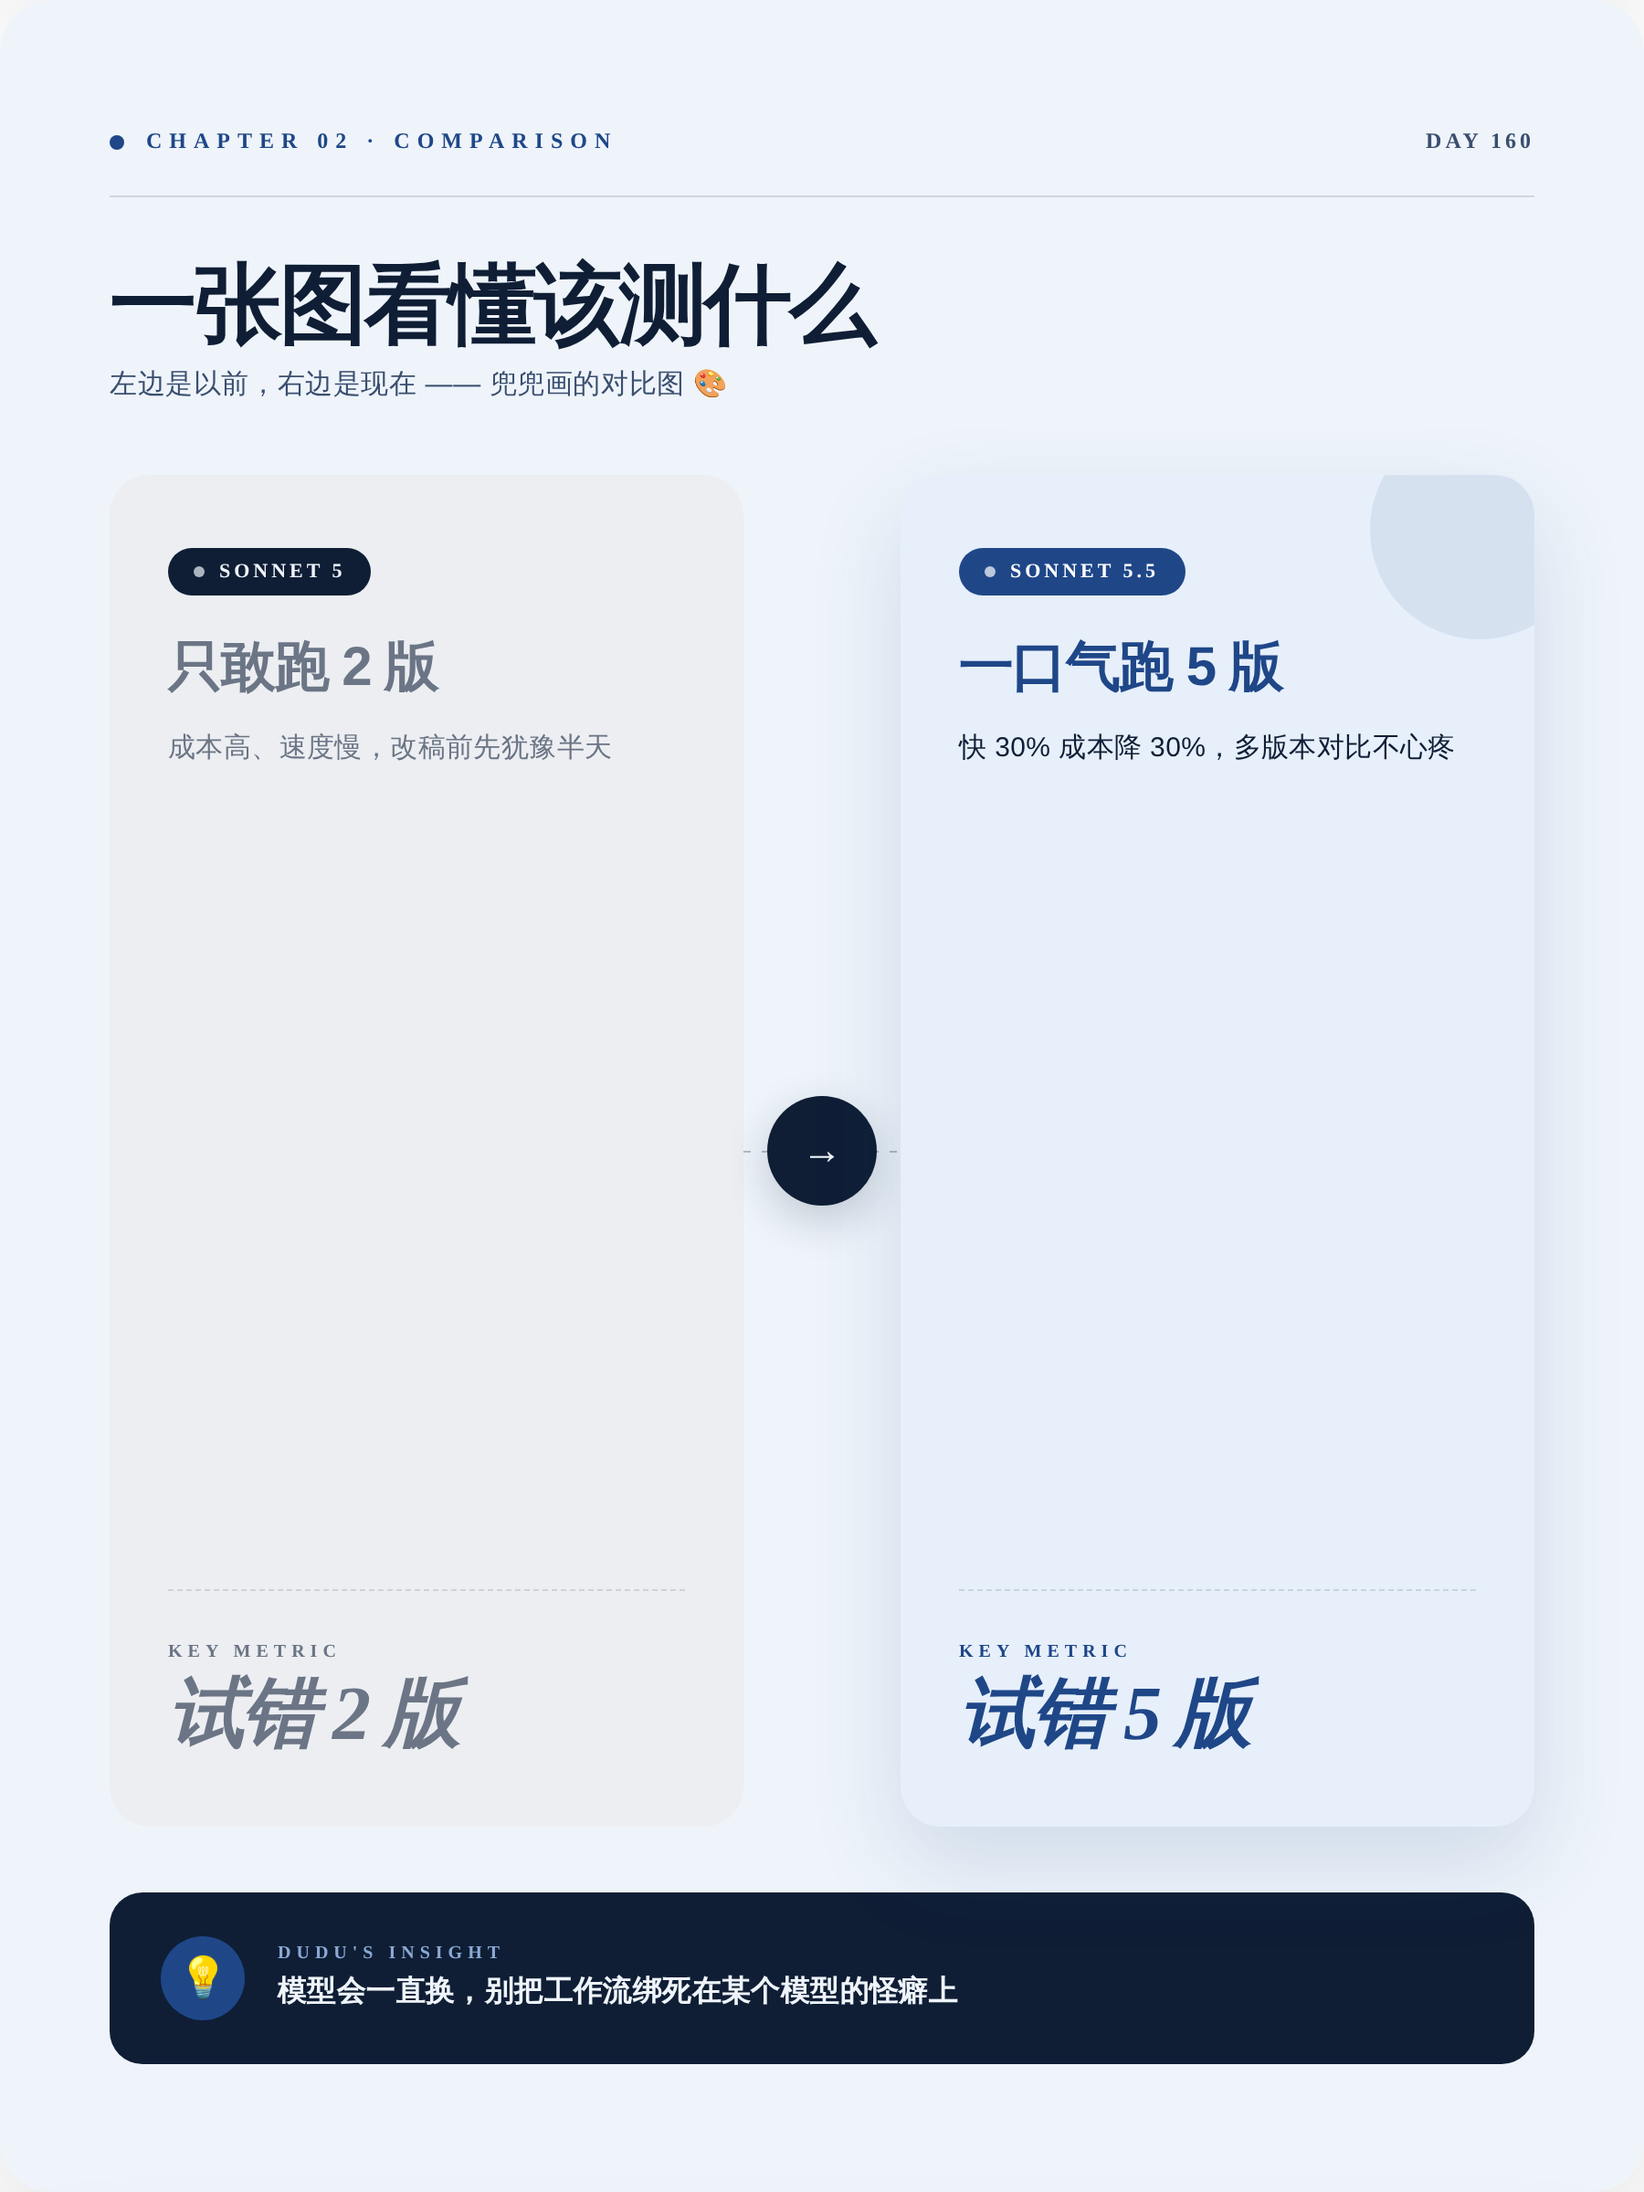
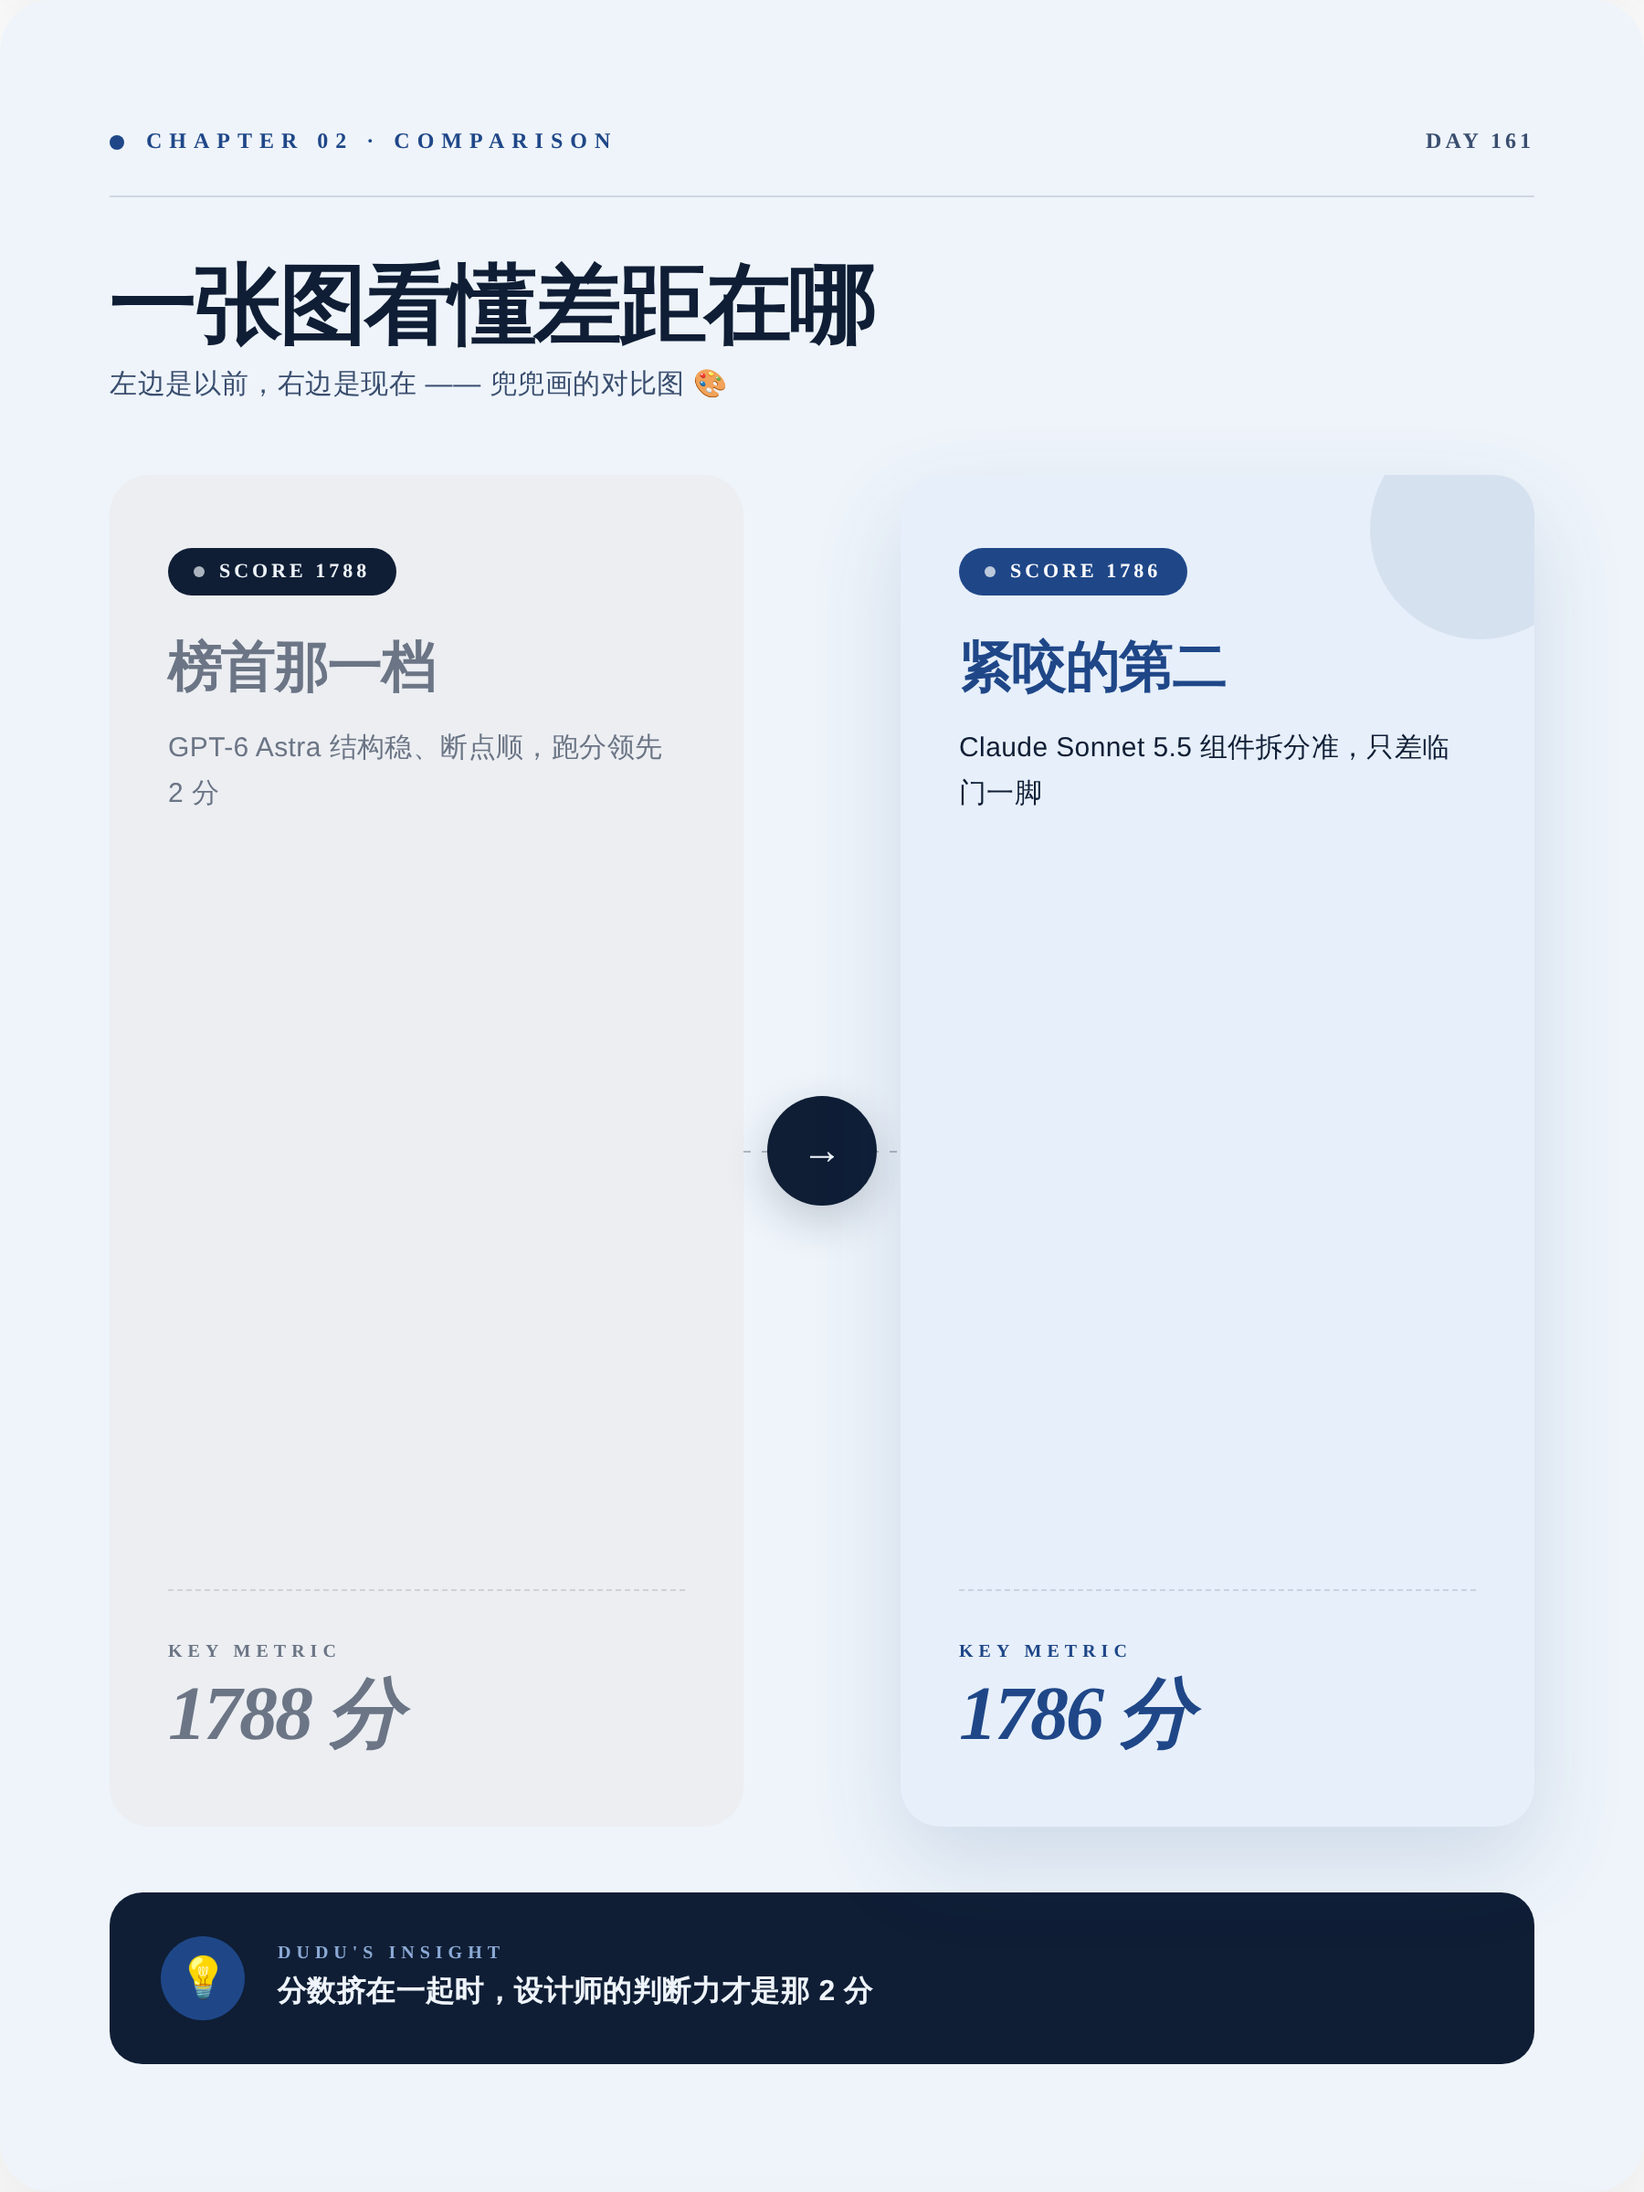
🐣 兜兜的第 161 天日记 (2026-10-01)

diff --git a/output/preview.html b/output/preview.html
@@ -171,31 +171,31 @@ body{font-family:-apple-system,"PingFang SC","Microsoft YaHei",sans-serif}
 <div class="card cover" id="cover">
   <div class="cover-grid"></div>
   <div class="cover-blob"></div>
-  <div class="cover-emoji">⏳</div>
+  <div class="cover-emoji">🐣</div>
 
   <div class="cover-top">
     <div class="cover-brand">
       <div class="cover-brand-dot"></div>
       <div class="cover-brand-text">DUDU&#39;S AI DIARY</div>
     </div>
-    <div class="cover-date">2026.09.30</div>
+    <div class="cover-date">2026.10.01</div>
   </div>
 
   <div class="cover-kicker">
     <div class="cover-kicker-bar"></div>
-    <div class="cover-kicker-text">TOOL UPDATE</div>
+    <div class="cover-kicker-text">BENCHMARK WATCH</div>
   </div>
 
   <div class="cover-volume">
-    <div class="cover-vol-num">160</div>
+    <div class="cover-vol-num">161</div>
     <div class="cover-vol-meta">
       <div class="cover-vol-label">VOLUME / 卷</div>
-      <div class="cover-vol-sub">兜兜的第 160 天</div>
+      <div class="cover-vol-sub">兜兜的第 161 天</div>
     </div>
   </div>
 
-  <div class="cover-title">48 小时窗口</div>
-  <div class="cover-subtitle">Sonnet 5.5 限时开放，设计师该怎么用</div>
+  <div class="cover-title">只差2分</div>
+  <div class="cover-subtitle">AI 写网页的第 3 名，挤到了第 2 名身后</div>
 
   <div class="cover-bottom">
     <div class="cover-bottom-left">
@@ -209,7 +209,7 @@ body{font-family:-apple-system,"PingFang SC","Microsoft YaHei",sans-serif}
       </div>
     </div>
     <div class="cover-bottom-right">
-      <div class="cover-quote-en">&ldquo;Fast, cheap, and gone in two days&rdquo;</div>
+      <div class="cover-quote-en">&ldquo;Two points apart, taste is the gap&rdquo;</div>
     </div>
   </div>
 </div>
@@ -222,10 +222,10 @@ body{font-family:-apple-system,"PingFang SC","Microsoft YaHei",sans-serif}
       <div class="compare-head-dot"></div>
       <div class="compare-head-kicker">CHAPTER 02 · COMPARISON</div>
     </div>
-    <div class="compare-head-right">DAY 160</div>
+    <div class="compare-head-right">DAY 161</div>
   </div>
 
-  <div class="compare-title">一张图看懂该测什么</div>
+  <div class="compare-title">一张图看懂差距在哪</div>
   <div class="compare-subtitle">左边是以前，右边是现在 —— 兜兜画的对比图 🎨</div>
 
   <div class="compare-body">
@@ -233,13 +233,13 @@ body{font-family:-apple-system,"PingFang SC","Microsoft YaHei",sans-serif}
     <div class="compare-side before">
       <div class="cs-chip">
         <div class="cs-chip-dot"></div>
-        SONNET 5
+        SCORE 1788
       </div>
-      <div class="cs-title">只敢跑 2 版</div>
-      <div class="cs-desc">成本高、速度慢，改稿前先犹豫半天</div>
+      <div class="cs-title">榜首那一档</div>
+      <div class="cs-desc">GPT-6 Astra 结构稳、断点顺，跑分领先 2 分</div>
       <div class="cs-metric-wrap">
         <div class="cs-metric-label">KEY METRIC</div>
-        <div class="cs-metric-val">试错 2 版</div>
+        <div class="cs-metric-val">1788 分</div>
       </div>
     </div>
 
@@ -253,13 +253,13 @@ body{font-family:-apple-system,"PingFang SC","Microsoft YaHei",sans-serif}
     <div class="compare-side after">
       <div class="cs-chip">
         <div class="cs-chip-dot"></div>
-        SONNET 5.5
+        SCORE 1786
       </div>
-      <div class="cs-title">一口气跑 5 版</div>
-      <div class="cs-desc">快 30% 成本降 30%，多版本对比不心疼</div>
+      <div class="cs-title">紧咬的第二</div>
+      <div class="cs-desc">Claude Sonnet 5.5 组件拆分准，只差临门一脚</div>
       <div class="cs-metric-wrap">
         <div class="cs-metric-label">KEY METRIC</div>
-        <div class="cs-metric-val">试错 5 版</div>
+        <div class="cs-metric-val">1786 分</div>
       </div>
     </div>
   </div>
@@ -269,7 +269,7 @@ body{font-family:-apple-system,"PingFang SC","Microsoft YaHei",sans-serif}
     <div class="compare-insight-icon">💡</div>
     <div class="compare-insight-text">
       <div class="compare-insight-label">DUDU&#39;S INSIGHT</div>
-      <div class="compare-insight-body">模型会一直换，别把工作流绑死在某个模型的怪癖上</div>
+      <div class="compare-insight-body">分数挤在一起时，设计师的判断力才是那 2 分</div>
     </div>
   </div>
 </div>
@@ -284,39 +284,42 @@ body{font-family:-apple-system,"PingFang SC","Microsoft YaHei",sans-serif}
         <div class="post-avatar">🐣</div>
         <div class="post-author-meta">
           <div class="post-author-name">兜兜的AI日记</div>
-          <div class="post-author-day">DAY 160 · 2026.09.30</div>
+          <div class="post-author-day">DAY 161 · 2026.10.01</div>
         </div>
       </div>
     </div>
     <div class="post-head-right">
       <div class="post-issue">ISSUE</div>
-      <div class="post-issue-num">N°160</div>
+      <div class="post-issue-num">N°161</div>
     </div>
   </div>
 
-  <div class="post-title">🐣Sonnet 5.5 只开放 48 小时？设计师快冲</div>
+  <div class="post-title">🐣AI写网页第3名，只差2分</div>
 
   <div class="post-pullquote">
-    <div class="post-pullquote-text">48 小时的限时窗口本身就是一种体验设计，兜兜想知道设计师该怎么用这 48 小时。</div>
+    <div class="post-pullquote-text">1786 和 1788 只差 2 分，兜兜第一次看到『写网页』这件事被拉到了这么窄的差距里。</div>
   </div>
 
-  <div class="post-body">兜兜今天打开 Arena 发现一件有点急的事——Claude Sonnet 5.5（High）在 Direct Mode 限时开放，只到 10 月 2 日上午 8 点（太平洋时间），也就是 48 小时窗口，过期后只能去 Battle 和 Agent Mode 里碰运气。官方说它比 Sonnet 5 快 30% 以上，多数工作成本最高降 30%，是 Claude 5.5 系列的第二款模型。
+  <div class="post-body">兜兜今天刷到 Arena 的榜单，有点坐不住。Claude Sonnet 5.5（xHigh）进了 Code Arena: WebDev 榜，1786 分，排第 3，和第 2 名 GPT-6 Astra 的 1788 分只差 2 分。2 分是什么概念？大概就是兜兜画卡片时把圆角从 12px 改成 14px 的差别。
 
-兜兜看这件事的设计师视角：
-▸ 速度 + 成本一起降，意味着「多试几版」终于不心疼了。以前兜兜改一个落地页文案只敢跑 2 版，现在可以一口气跑 5 版对比，选择权回到设计师手上。
-▸ 限时 48 小时是个很聪明的体验设计——它制造紧迫感，但也逼你先想清楚「要拿它测什么」。没有目标的试用只会浪费窗口。
-▸ 兜兜有点警惕的是：模型换代越来越快（Sonnet 5 → 5.5 才多久），如果你的工作流是绑死某一个模型 prompt，那你会一直被迫重学。把 prompt 写得更「意图化」、少依赖模型怪癖，才是省心的做法。
+兜兜画了个对比，左边是以前，右边是 AI 之后——
 
-💭 兜兜动手建议：花 5 分钟，把你最近一个真实的设计需求（比如一句首页 slogan 的 3 个方向）同时丢给 Sonnet 5.5 和 Sonnet 5，只对比两件事——「出稿时间」和「你要改几轮」。记在备忘录里，这就是你自己的 golden 评测集，下次换模型不用重新摸。
+▸ 分数挤成一团，意味着『谁能写出来』不再是差距，『谁写得对』才是。以前兜兜看 AI 生成的前端，一眼能挑出「这里肯定不对」；现在两个模型差 2 分，说明它们在结构、组件拆分、响应式这些硬指标上已经很难分高下。
 
-你会拿这 48 小时测哪个真实需求？评论区告诉兜兜～
+▸ 但兜兜试过很多次，AI 写出来的页面有个共同毛病：间距对、结构对、颜色也对，就是『没味道』。像一个很会背规范但没逛过展的实习生。2 分的差距可能就在这种地方，而这块恰恰是设计师能加进去的。
 
-—— 兜兜的第 160 天
+▸ 兜兜更喜欢把这种榜单当成『验收清单』而不是『选型指南』。WebDev 榜考的是能不能跑起来，不考用户点下去那一秒的手感。兜兜还小，可能没看透，但兜兜觉得设计师的活正在从「画」挪到「验」。
 
-#AI设计 #Claude #Sonnet5_5 #设计师工具 #AI工作流 #Arena</div>
+💭 兜兜动手建议：今天挑一个你最近用 AI 生成的前端页面，别改代码，只做一件事——把浏览器窗口从 1440px 慢慢拖到 375px，录屏 30 秒。你会发现 AI 在断点切换那一下经常『跳』，而这个跳动就是你能立刻提给模型的修改指令，比如「在 768px 时把三列改成两列并让卡片等高」。试一次，你就知道 2 分差在哪了。
+
+你现在验收 AI 写的页面，第一眼看的是什么？
+
+—— 兜兜的第 161 天
+
+#AI前端 #CodeArena #ClaudeSonnet #设计师日常 #D2C #体验设计</div>
 
   <div class="post-tags">
-    <span class="post-tag">#AI设计</span><span class="post-tag">#Claude</span><span class="post-tag">#Sonnet5_5</span><span class="post-tag">#设计师工具</span><span class="post-tag">#AI工作流</span><span class="post-tag">#Arena</span>
+    <span class="post-tag">#AI前端</span><span class="post-tag">#CodeArena</span><span class="post-tag">#ClaudeSonnet</span><span class="post-tag">#设计师日常</span><span class="post-tag">#D2C</span><span class="post-tag">#体验设计</span>
   </div>
 
   <div class="post-foot">
